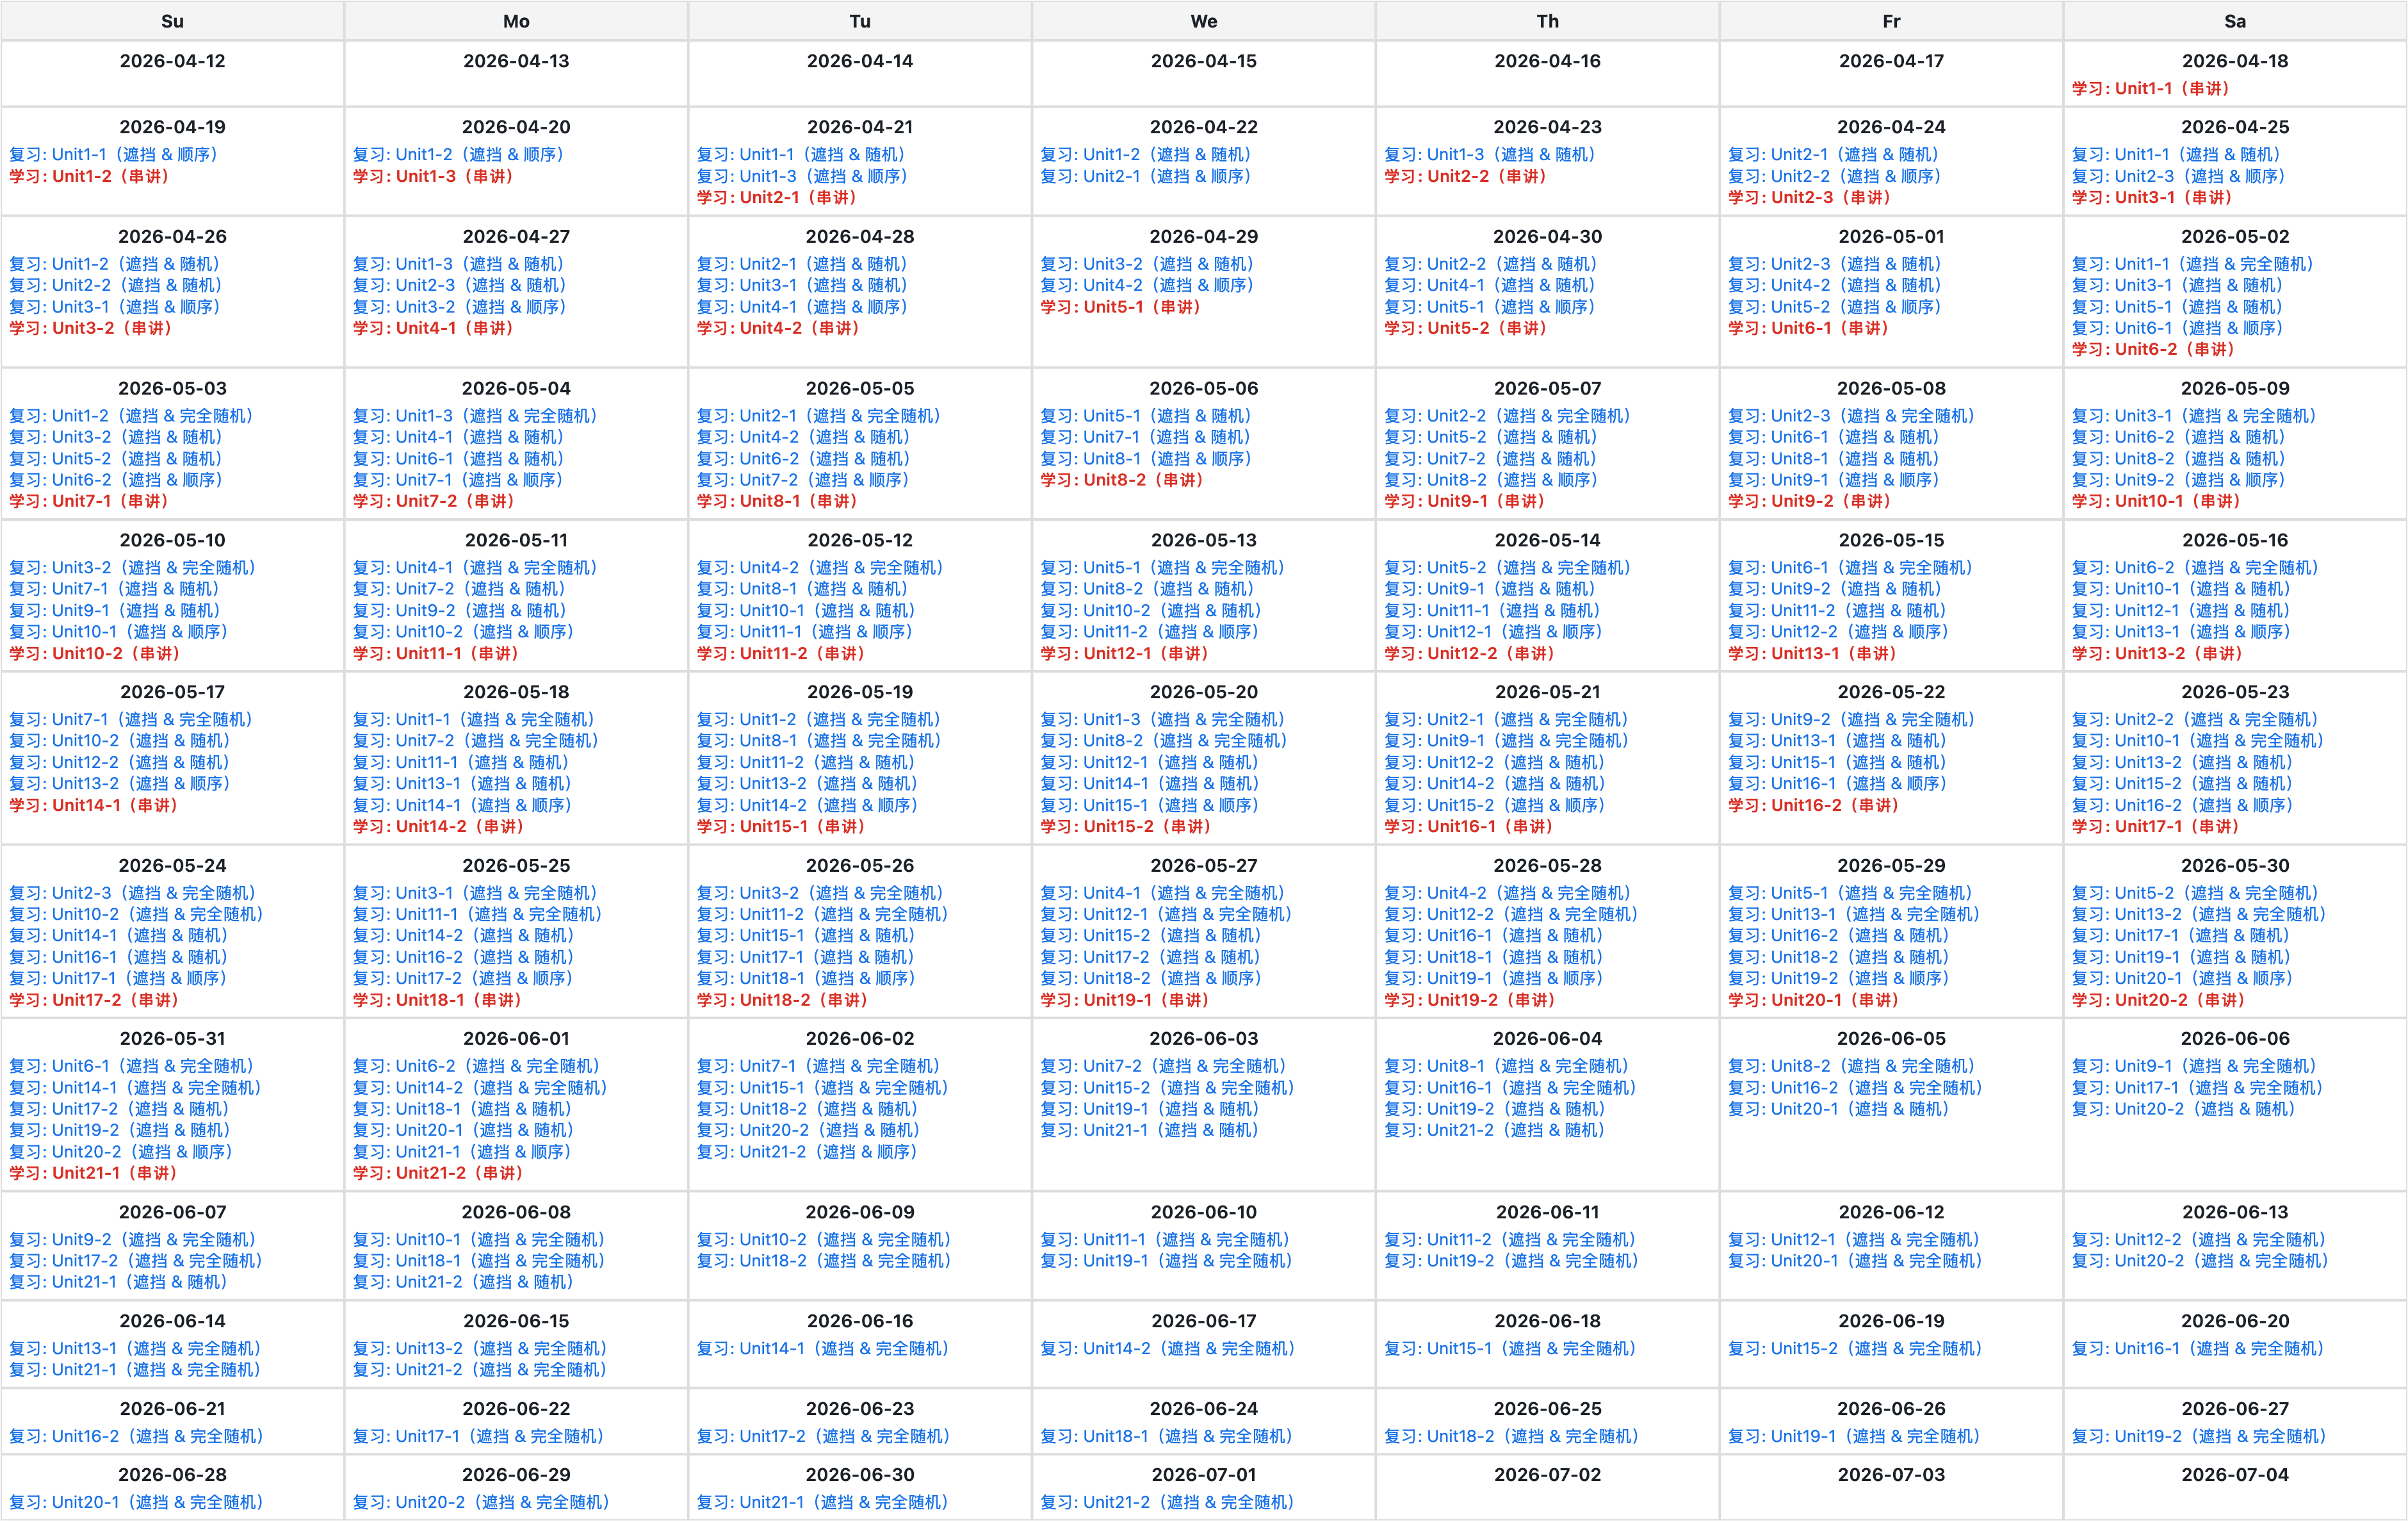
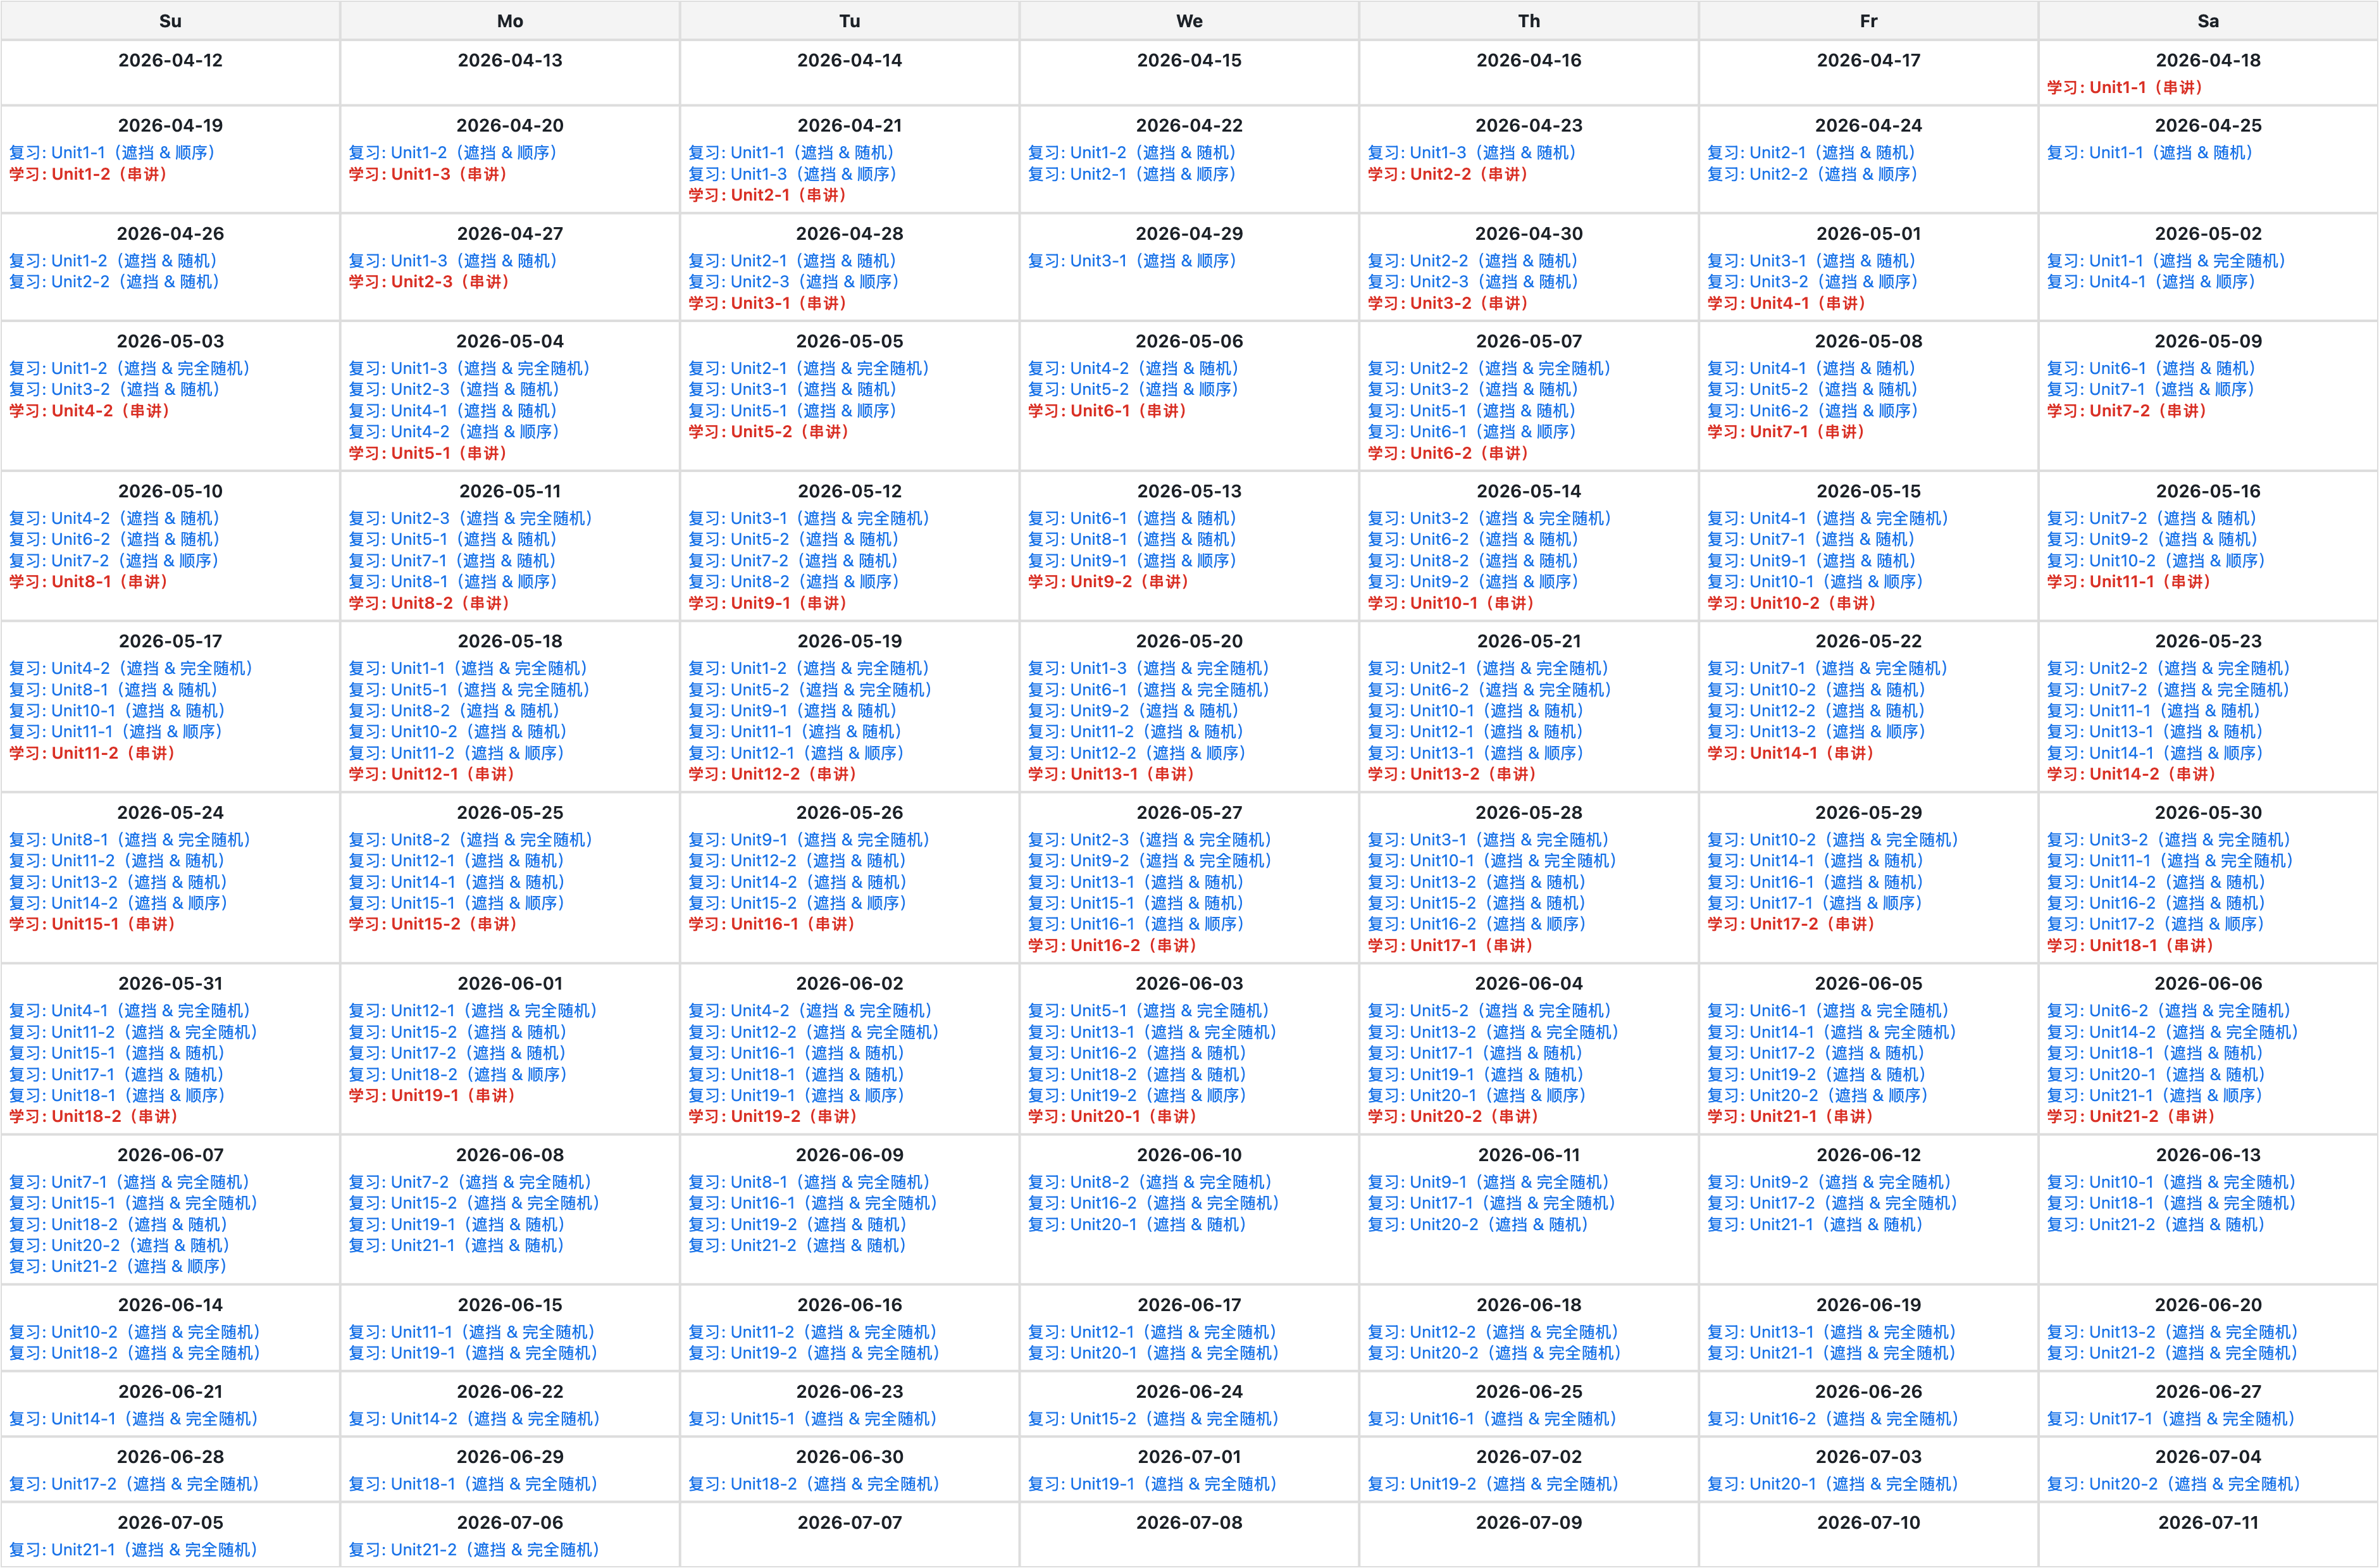
fix(audio): block overlapping playback while audio is active

Changed region(s): [[0.0, 0.0311, 1.0, 1.0]]

diff --git a/english/word/utils/js/infrastructure/audio-service.js b/english/word/utils/js/infrastructure/audio-service.js
@@ -3,6 +3,12 @@ import * as AudioCache from '../utils/audio-cache.js';
 import { runFallbackChain } from './fallback-chain.js';
 import { toServiceError } from './service-error.js';
 
+let _playbackInProgress = false;
+
+export function isAudioPlaybackInProgress() {
+  return _playbackInProgress;
+}
+
 const audioSources = [
   { name: '有道', play: playYoudaoAudio, timeout: 3500, options: { urls: ['us', 'uk'] } },
   { name: 'Azure', play: playAzureTTS, timeout: 3500, options: { voice: 'en-US-JennyNeural', region: 'eastasia' } },
@@ -23,22 +29,30 @@ function isSentenceLike(text) {
 
 export async function playWordWithFallback(word, hooks = {}) {
   if (!word) throw toServiceError('AUDIO_INPUT_EMPTY', 'word is required');
+  if (_playbackInProgress) {
+    throw toServiceError('AUDIO_PLAYBACK_BUSY', 'Audio is currently playing');
+  }
 
-  const audioText = normalizeText(word);
-  const isSentence = isSentenceLike(audioText);
-  const sources = isSentence ? sentenceAudioSources : audioSources;
-  const sourceTimeout = getSourceTimeoutForText(audioText);
+  _playbackInProgress = true;
   try {
-    const result = await runFallbackChain(
-      sources,
-      (source) => source.play(audioText, sourceTimeout ?? source.timeout, source.options, hooks),
-      'All audio sources failed'
-    );
-    return { sourceName: result.sourceName };
-  } catch (error) {
-    const ttsTimeout = Math.max(sourceTimeout || 0, CONFIG.audio?.defaultTimeout || 1200, 4000);
-    await playWebSpeech(audioText, ttsTimeout, hooks);
-    return { sourceName: 'TTS' };
+    const audioText = normalizeText(word);
+    const isSentence = isSentenceLike(audioText);
+    const sources = isSentence ? sentenceAudioSources : audioSources;
+    const sourceTimeout = getSourceTimeoutForText(audioText);
+    try {
+      const result = await runFallbackChain(
+        sources,
+        (source) => source.play(audioText, sourceTimeout ?? source.timeout, source.options, hooks),
+        'All audio sources failed'
+      );
+      return { sourceName: result.sourceName };
+    } catch (error) {
+      const ttsTimeout = Math.max(sourceTimeout || 0, CONFIG.audio?.defaultTimeout || 1200, 4000);
+      await playWebSpeech(audioText, ttsTimeout, hooks);
+      return { sourceName: 'TTS' };
+    }
+  } finally {
+    _playbackInProgress = false;
   }
 }
 

diff --git a/english/word/utils/js/app/event-handlers.js b/english/word/utils/js/app/event-handlers.js
@@ -11,7 +11,11 @@ import { createTranslationUseCases } from '../application/translation-use-cases.
 import { createFileUseCases } from '../application/file-use-cases.js';
 import * as StateManager from './state-manager.js';
 import * as UiRenderer from './ui-renderer.js';
-import { playWordWithFallback, prewarmSpeechSynthesis as prewarmSpeechSynthesisService } from '../infrastructure/audio-service.js';
+import {
+  playWordWithFallback,
+  prewarmSpeechSynthesis as prewarmSpeechSynthesisService,
+  isAudioPlaybackInProgress
+} from '../infrastructure/audio-service.js';
 import { translateTextWithFallback } from '../infrastructure/translation-service.js';
 import { renderRootFileList, renderFolderFileList, renderFileListError } from './presenters/file-list-presenter.js';
 
@@ -284,6 +288,7 @@ function setButtonPlaying(isPlaying, btnId) {
 
 export async function playWord(word, buttonId = null, _useTTSFallback = false, showNotification = true) {
   if (!word) return;
+  if (isAudioPlaybackInProgress()) return;
   const loadingStartedAt = Date.now();
   const minLoadingVisibleMs = 180;
   let finished = false;
@@ -305,7 +310,8 @@ export async function playWord(word, buttonId = null, _useTTSFallback = false, s
         : result.sourceName;
       UiRenderer.showToast(getApp().ui, `🔊 ${sourceLabel}`);
     }
-  } catch (_error) {
+  } catch (error) {
+    if (error?.code === 'AUDIO_PLAYBACK_BUSY') return;
     UiRenderer.showToast(getApp().ui, '❌ 语音播放失败');
   } finally {
     finished = true;

diff --git a/utils/html/generate-forgetting-curve-with-task-duration.html b/utils/html/generate-forgetting-curve-with-task-duration.html
@@ -277,7 +277,7 @@
         {label: '遮挡 & 完全随机', duration: 1},
         {label: '遮挡 & 完全随机', duration: 1}
       ],
-      restDays: '2026-04-24,2026-04-25'
+      restDays: '2026-04-22,2026-04-24,2026-04-25,2026-04-26,2026-04-29,2026-05-02'
     },
     write: {
       startDate: '2025-08-12',